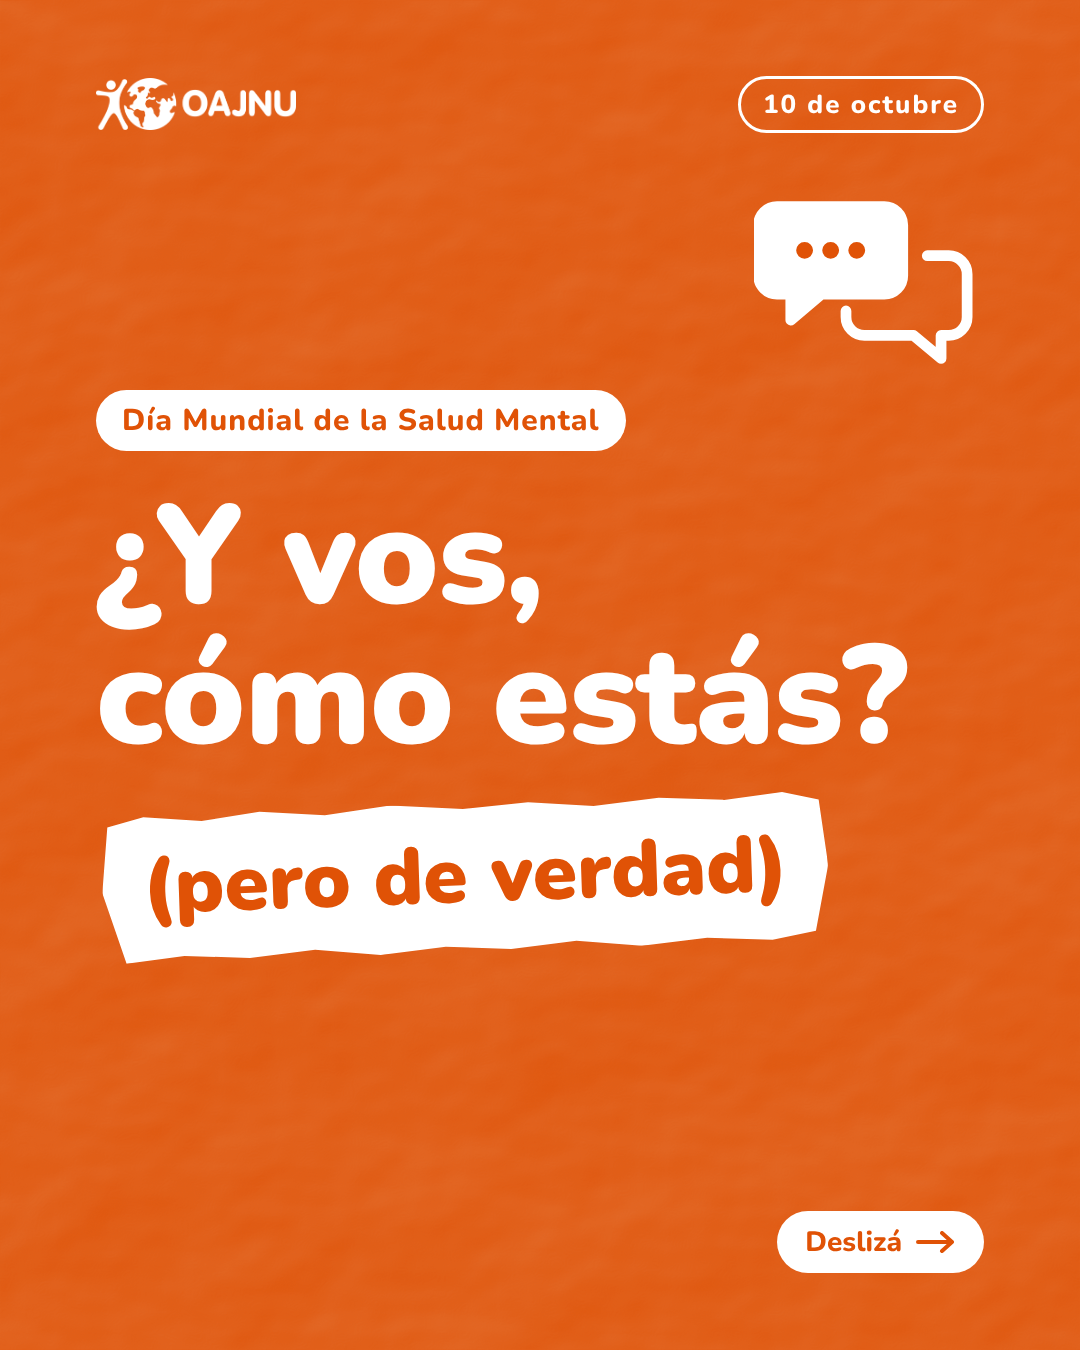
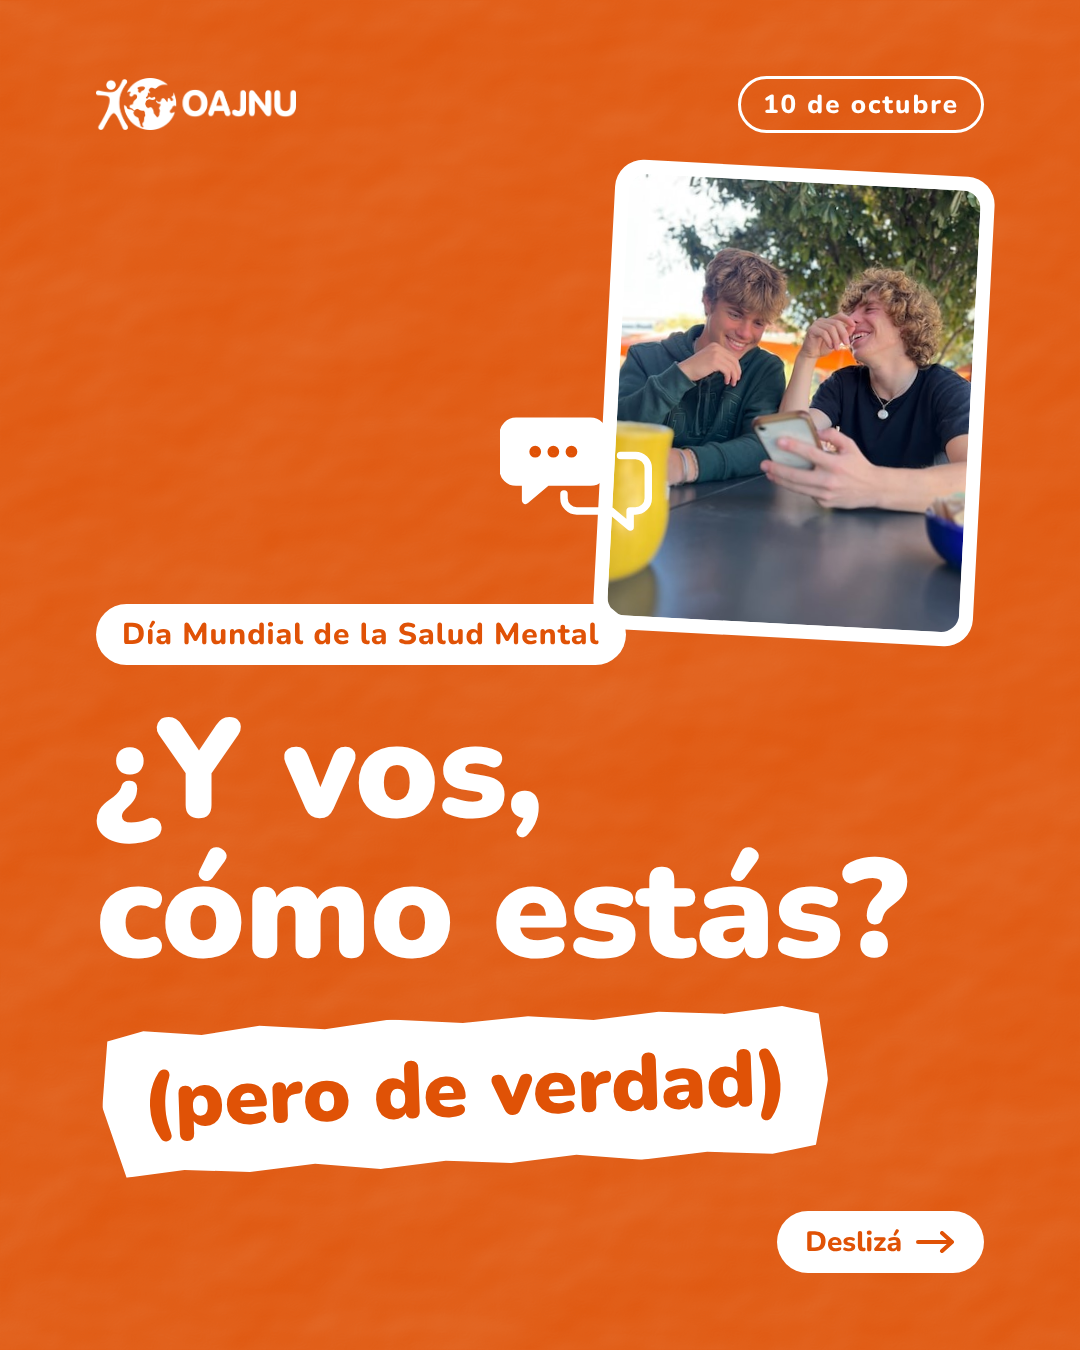
Sumar fotos de Unsplash en la portada y la placa 5
Claude-Session: https://claude.ai/code/session_01BXRxF7L7LKCtWKXhXPWCma

diff --git a/carrusel-salud-mental/carrusel.html b/carrusel-salud-mental/carrusel.html
@@ -49,7 +49,7 @@
 
   /* Textura de papel arrugado, sin sombras sobre los elementos */
   .papel { position: absolute; inset: 0; z-index: 0; pointer-events: none; }
-  .placa > *:not(.papel):not(.burbujas) { position: relative; z-index: 1; }
+  .placa > *:not(.papel):not(.burbujas):not(.foto) { position: relative; z-index: 1; }
 
   /* Encabezado fijo: logo + número de placa */
   .cabecera { display: flex; justify-content: space-between; align-items: center; height: 64px; }
@@ -114,6 +114,16 @@
   .portada .papelito { font-weight: 900; font-size: 80px; margin-top: 36px; margin-left: 6px; }
   .portada .bajada { font-size: 40px; line-height: 1.35; margin-top: 52px; max-width: 800px; }
   .burbujas { position: absolute; right: 96px; top: 176px; width: 230px; z-index: 1; }
+  /* Fotos tipo "pegadas" en el papel: borde blanco, vértices redondeados, sin sombra */
+  .foto { background: var(--blanco); padding: 14px; border-radius: 28px; }
+  .foto img { display: block; width: 100%; height: 100%; object-fit: cover; border-radius: 18px; }
+  .portada .foto { position: absolute; right: 96px; top: 168px; width: 380px; height: 470px; transform: rotate(3deg); z-index: 1; }
+  .portada .burbujas { position: absolute; right: 420px; top: 400px; width: 160px; z-index: 2; }
+  .portada .cuerpo { justify-content: flex-end; padding-bottom: 40px; }
+  .mensaje .fila { display: flex; justify-content: space-between; align-items: flex-end; margin-top: 44px; }
+  .mensaje .fila .ods { margin-top: 0; white-space: nowrap; font-size: 28px; padding: 12px 24px; }
+  .mensaje .foto { width: 380px; height: 285px; transform: rotate(-2.5deg); flex: none; }
+
 
   /* ---------- Placa 2 ---------- */
   .dato-lema { margin-top: 40px; display: flex; gap: 32px; align-items: center; }
@@ -136,8 +146,8 @@
   .chip.real-c { background: var(--cyan); color: var(--blanco); }
 
   /* ---------- Placa 5: mensaje ---------- */
-  .mensaje h1 { font-size: 104px; }
-  .mensaje .cierre { font-size: 40px; margin-top: 48px; max-width: 840px; }
+  .mensaje h1 { font-size: 90px; }
+  .mensaje .cierre { font-size: 36px; margin-top: 36px; max-width: 880px; }
   .ods { display: inline-flex; align-items: center; gap: 18px; align-self: flex-start; margin-top: 56px; font-weight: 800; font-size: 30px; padding: 14px 30px; border-radius: 999px; border: 3px solid var(--blanco); }
 
   /* ---------- Placa 6: pasos ---------- */
@@ -198,6 +208,8 @@
     <img src="assets/logo-blanco.png" alt="OAJNU">
     <span class="contador">10 de octubre</span>
   </div>
+
+  <div class="foto"><img src="assets/foto-portada.jpg" alt="Dos jóvenes riéndose mientras charlan"></div>
 
   <!-- Dos globos de diálogo: hablar y escuchar -->
   <svg class="burbujas" viewBox="0 0 300 260" fill="none" stroke="#fff" stroke-width="14" stroke-linecap="round" stroke-linejoin="round">
@@ -312,10 +324,13 @@
     <span class="etiqueta">Lo que creemos en OAJNU</span>
     <h1>La prevención también es crear <span class="resaltado">espacios</span> de diálogo</h1>
     <p class="cierre">Muchas veces, una charla honesta entre jóvenes es <strong>el primer lugar donde alguien se anima a decir cómo se siente</strong>. Ahí empieza el cuidado.</p>
+    <div class="fila">
     <span class="ods">
       <svg width="40" height="40" viewBox="0 0 40 40" fill="none" stroke="#fff" stroke-width="4" stroke-linecap="round" stroke-linejoin="round"><path d="M20 35s-14-8-14-19a7.5 7.5 0 0 1 14-3.7A7.5 7.5 0 0 1 34 16c0 11-14 19-14 19z"/><path d="M4 20h7l3-5 4 10 3-5h15"/></svg>
       ODS 3 · Salud y Bienestar
     </span>
+    <div class="foto"><img src="assets/foto-dialogo.jpg" alt="Grupo de amigos charlando en ronda"></div>
+    </div>
   </div>
   <div class="pie">
     <span></span>

diff --git a/carrusel-salud-mental/README.md b/carrusel-salud-mental/README.md
@@ -55,4 +55,7 @@ Para editar, cambiá `carrusel.html` y volvé a exportar con `node render.mjs` (
 ## Antes de publicar
 
 - **Verificar los teléfonos** en argentina.gob.ar. Las fuentes consultadas coinciden en 0800 999 0091 y 135 / (011) 5275-1135, pero conviene confirmarlos el día de la publicación.
-- **Fotos:** el entorno donde se armó el carrusel no tenía acceso a bancos de imágenes, así que el diseño se resolvió con texturas e ilustraciones. Si quieren sumar una foto (por ejemplo en la portada o en la placa 5), usen fotos propias de OAJNU con la marca de agua o fotos libres de Unsplash o Pexels, sin contenido partidario ni sombras agregadas.
+- **Fotos:** son de Unsplash, de uso libre con licencia Unsplash, que no exige crédito pero conviene darlo. Están en `assets/`:
+  - Portada: foto de [Lesli Whitecotton](https://unsplash.com/photos/eet-z_TuyWI) (`foto-portada.jpg`).
+  - Placa 5: foto de [Toa Heftiba](https://unsplash.com/photos/l_ExpFwwOEg) (`foto-dialogo.jpg`).
+  - El entorno solo pudo bajar la versión de 400 px, así que van como “fotos pegadas” chicas para que se vean nítidas. Si quieren usarlas más grandes, descarguen la versión completa desde esos links, reemplacen los archivos y vuelvan a exportar.
